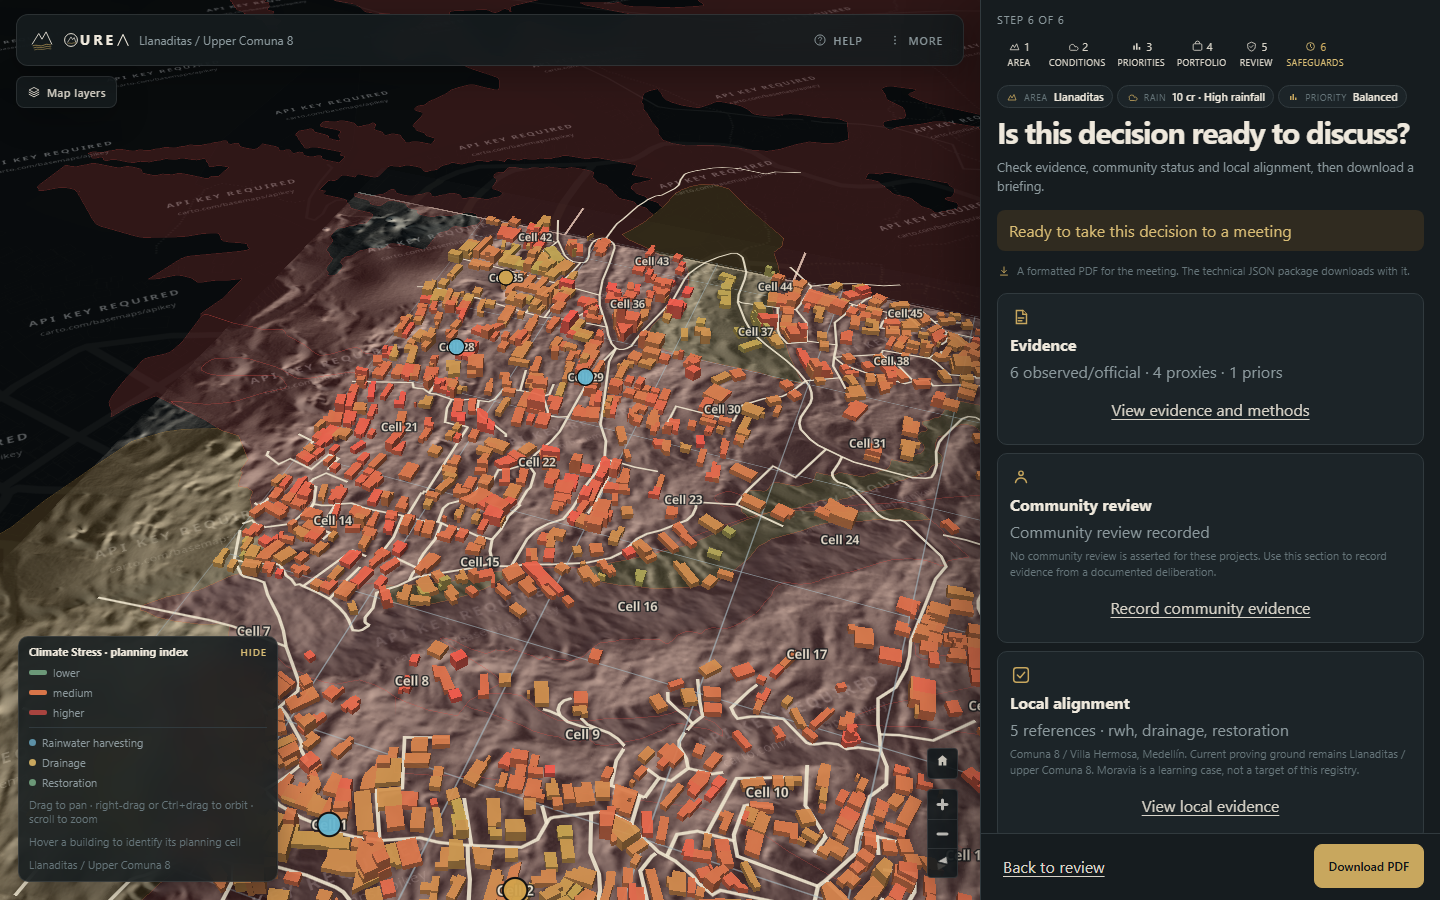
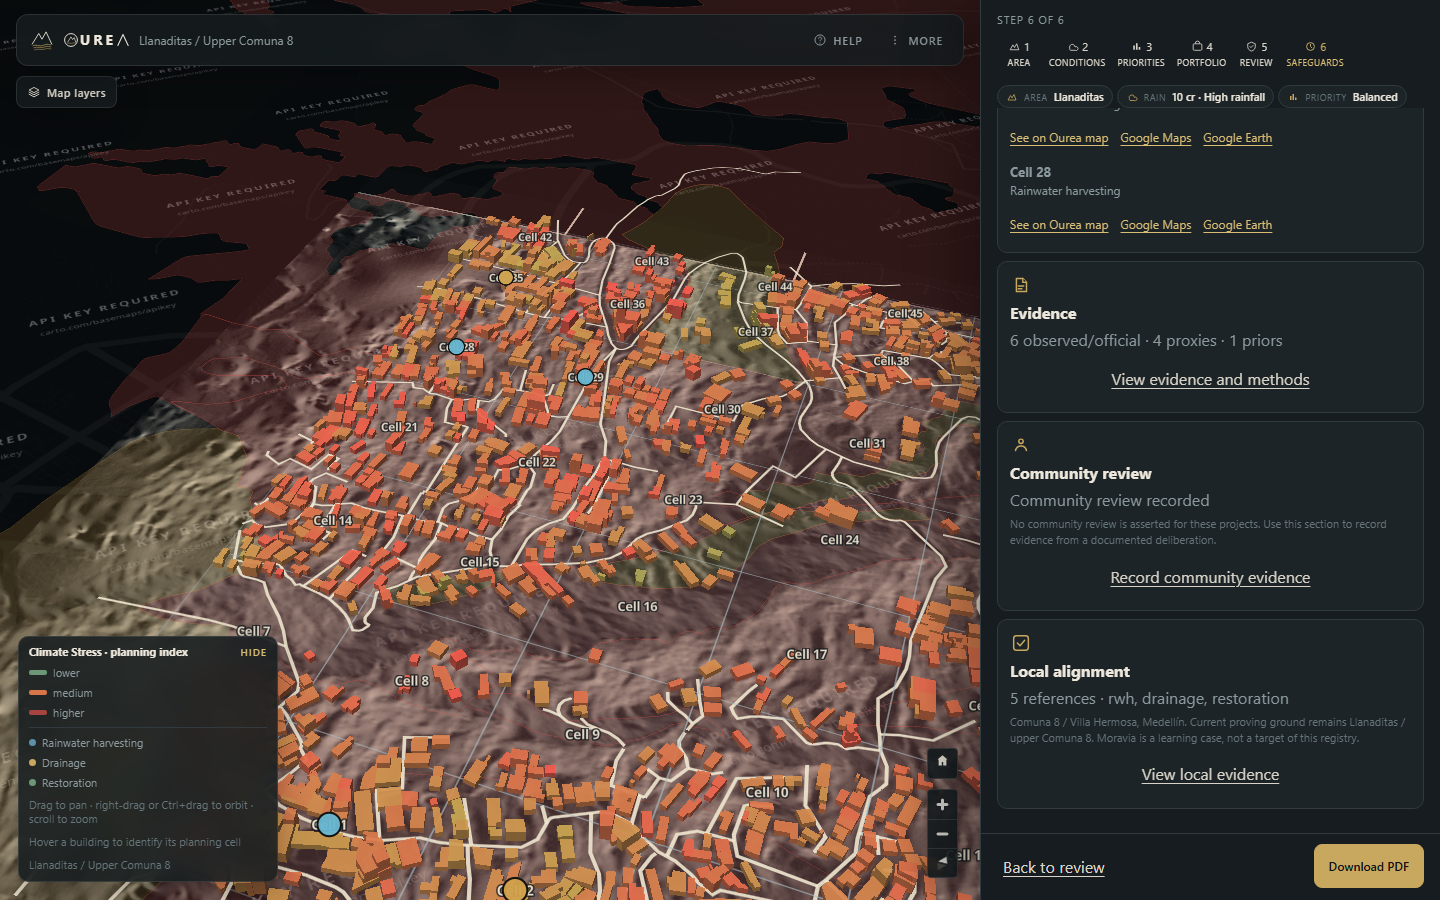
fix: replace collapse imagery with a planning-safe mechanism

diff --git a/frontend/src/components/EarlyActionDiagram.jsx b/frontend/src/components/EarlyActionDiagram.jsx
@@ -1,0 +1,80 @@
+import { EARLY_ACTION } from '../domain/earlyAction.js';
+
+function House({ x, y }) {
+  return (
+    <g transform={`translate(${x} ${y})`}>
+      <rect x="-7" y="-14" width="14" height="14" fill="#d8d0c4" stroke="#3d464a" strokeWidth="1.2" />
+      <polygon points="-9,-14 0,-24 9,-14" fill="#8a6a44" stroke="#3d464a" strokeWidth="1.2" />
+      <rect x="-2" y="-8" width="4" height="8" fill="#3d464a" />
+    </g>
+  );
+}
+
+function Slope({ treat = false }) {
+  return (
+    <>
+      <path d="M8 78 L132 48 L132 118 L8 118 Z" fill={treat ? '#3d5348' : '#5a4a40'} />
+      <House x={36} y={86} />
+      <House x={70} y={78} />
+      <House x={104} y={70} />
+    </>
+  );
+}
+
+function Frame({ children, title }) {
+  return (
+    <figure className="early-action-frame">
+      <svg viewBox="0 0 140 128" role="img" aria-hidden="true">
+        {children}
+      </svg>
+      <figcaption>{title}</figcaption>
+    </figure>
+  );
+}
+
+export function EarlyActionDiagram() {
+  return (
+    <section className="early-action" data-testid="early-action-diagram">
+      <b>{EARLY_ACTION.title}</b>
+      <div className="early-action-grid">
+        <Frame title={`1. ${EARLY_ACTION.frames[0].title}`}>
+          <rect width="140" height="128" fill="#1c2428" />
+          <circle cx="108" cy="22" r="14" fill="#8aa4b0" />
+          <circle cx="96" cy="26" r="11" fill="#9bb3bc" />
+          {[20, 40, 60, 80, 100, 28, 52, 76].map((x, index) => (
+            <line
+              key={`${x}-${index}`}
+              x1={x}
+              y1={18 + (index % 3) * 8}
+              x2={x + 4}
+              y2={32 + (index % 3) * 8}
+              stroke="#c5d8e0"
+              strokeWidth="1.4"
+            />
+          ))}
+          <Slope />
+        </Frame>
+        <Frame title={`2. ${EARLY_ACTION.frames[1].title}`}>
+          <rect width="140" height="128" fill="#1c2428" />
+          <Slope />
+          <path d="M24 52 L118 108" stroke="#7ea7c2" strokeWidth="3" fill="none" />
+          <polygon points="118,108 104,102 110,94" fill="#7ea7c2" />
+        </Frame>
+        <Frame title={`3. ${EARLY_ACTION.frames[2].title}`}>
+          <rect width="140" height="128" fill="#1c2428" />
+          <Slope />
+          <path d="M18 70 L60 92 L110 114" stroke="#c4a574" strokeWidth="2" fill="none" strokeDasharray="4 3" />
+        </Frame>
+        <Frame title={`4. ${EARLY_ACTION.frames[3].title}`}>
+          <rect width="140" height="128" fill="#1c2428" />
+          <Slope treat />
+          <path d="M18 64 L122 100" stroke="#c8a75e" strokeWidth="3" fill="none" />
+          <rect x="42" y="58" width="8" height="10" fill="#5d91a7" />
+          <rect x="78" y="50" width="8" height="10" fill="#5d91a7" />
+          <path d="M112 62 Q118 48 124 58" stroke="#8fbf9a" strokeWidth="2" fill="none" />
+        </Frame>
+      </div>
+      <p>{EARLY_ACTION.legend}</p>
+    </section>
+  );
+}

diff --git a/frontend/src/domain/earlyAction.js b/frontend/src/domain/earlyAction.js
@@ -1,0 +1,26 @@
+export const EARLY_ACTION = Object.freeze({
+  title: 'Why early action matters',
+  legend: 'Illustrative mechanism, not a site-specific forecast or structural assessment.',
+  frames: Object.freeze([
+    Object.freeze({
+      step: 1,
+      title: 'Accumulated rainfall',
+      body: 'Wet-season water arrives on the hillside as a planning rainfall context.',
+    }),
+    Object.freeze({
+      step: 2,
+      title: 'Runoff concentrates on the hillside',
+      body: 'Roof and slope water gather along paths unless they are captured or conveyed.',
+    }),
+    Object.freeze({
+      step: 3,
+      title: 'Exposure and slope stress remain without intervention',
+      body: 'The same buildings stay in the planning cells. This is a mechanism, not a failure forecast.',
+    }),
+    Object.freeze({
+      step: 4,
+      title: 'Drainage, rainwater capture and restoration manage the mechanism',
+      body: 'The recommended works change how water is handled; they do not predict damage avoided.',
+    }),
+  ]),
+});

diff --git a/frontend/src/flow/steps/SafeguardsStep.jsx b/frontend/src/flow/steps/SafeguardsStep.jsx
@@ -2,7 +2,7 @@ import { EVIDENCE_GROUPS } from '../../config/uiCopy.js';
 import { COMMUNITY_COPY } from '../../config/communityEvidence.js';
 import { INTERVENTIONS } from '../../config/modelConfig.js';
 import { CellPlaceLinks } from '../../components/CellPlaceLinks.jsx';
-import { HillsideFallAnimation } from '../../components/HillsideFallAnimation.jsx';
+import { EarlyActionDiagram } from '../../components/EarlyActionDiagram.jsx';
 import { EvidenceIcon, CommunityIcon, AlignmentIcon, DownloadIcon } from '../../components/FlowIcons.jsx';
 import { featureLngLat } from '../../domain/placeLinks.js';
 import { FlowActions } from '../FlowActions.jsx';
@@ -55,7 +55,7 @@ export function SafeguardsStep({
         <span className="label-with-icon"><DownloadIcon /> Downloads a formatted PDF proposal for the meeting.</span>
       </p>
 
-      <HillsideFallAnimation />
+      <EarlyActionDiagram />
 
       {(projects ?? []).length > 0 && (
         <article className="choice-card static-card" data-testid="cell-place-list">

diff --git a/frontend/src/styles/flow.css b/frontend/src/styles/flow.css
@@ -910,26 +910,48 @@
   font-size: 12px;
 }
 
-.hillside-anim {
+.early-action {
   margin: 0 0 12px;
-  padding: 8px;
+  padding: 10px 12px 8px;
   border: 1px solid var(--border);
   border-radius: 10px;
-  background: #111517;
+  background: var(--panel, #f7f3ea);
 }
 
-.hillside-anim canvas {
+.early-action b {
+  display: block;
+  margin-bottom: 8px;
+}
+
+.early-action-grid {
+  display: grid;
+  grid-template-columns: repeat(4, minmax(0, 1fr));
+  gap: 8px;
+}
+
+.early-action-frame {
+  margin: 0;
+}
+
+.early-action-frame svg {
   display: block;
   width: 100%;
   height: auto;
   border-radius: 6px;
 }
 
-.hillside-anim figcaption {
-  margin: 8px 4px 2px;
+.early-action-frame figcaption,
+.early-action p {
+  margin: 6px 0 0;
   color: var(--text-muted);
   font-size: 11px;
-  line-height: 1.4;
+  line-height: 1.35;
+}
+
+@media (max-width: 720px) {
+  .early-action-grid {
+    grid-template-columns: repeat(2, minmax(0, 1fr));
+  }
 }
 
 @media (prefers-reduced-motion: reduce) {
